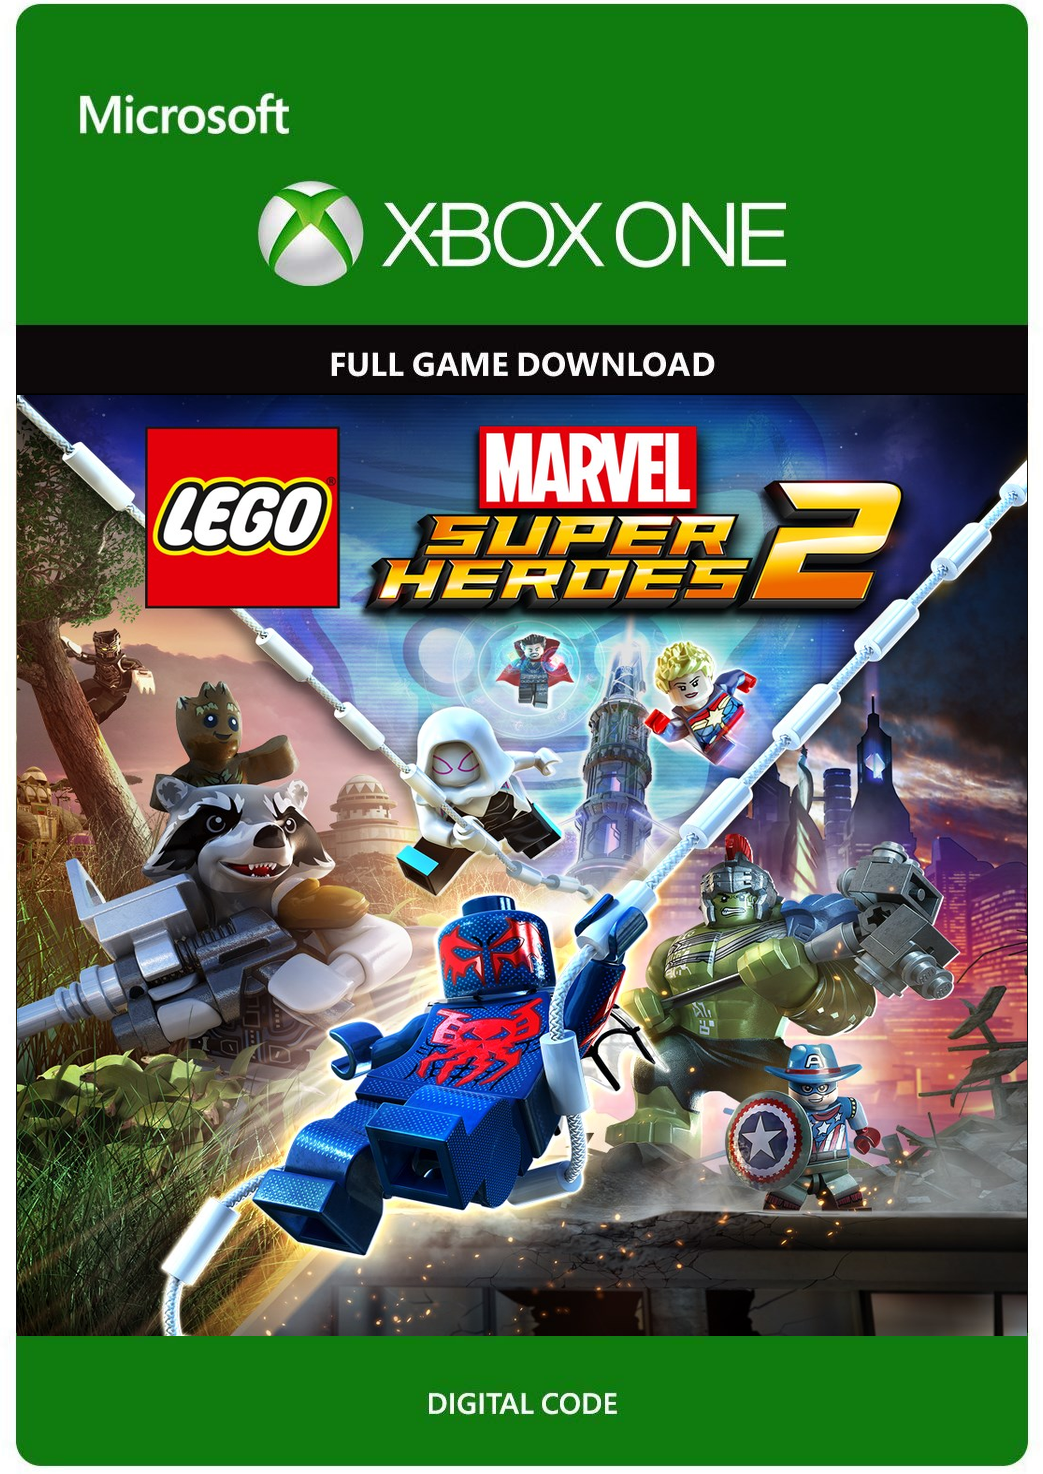
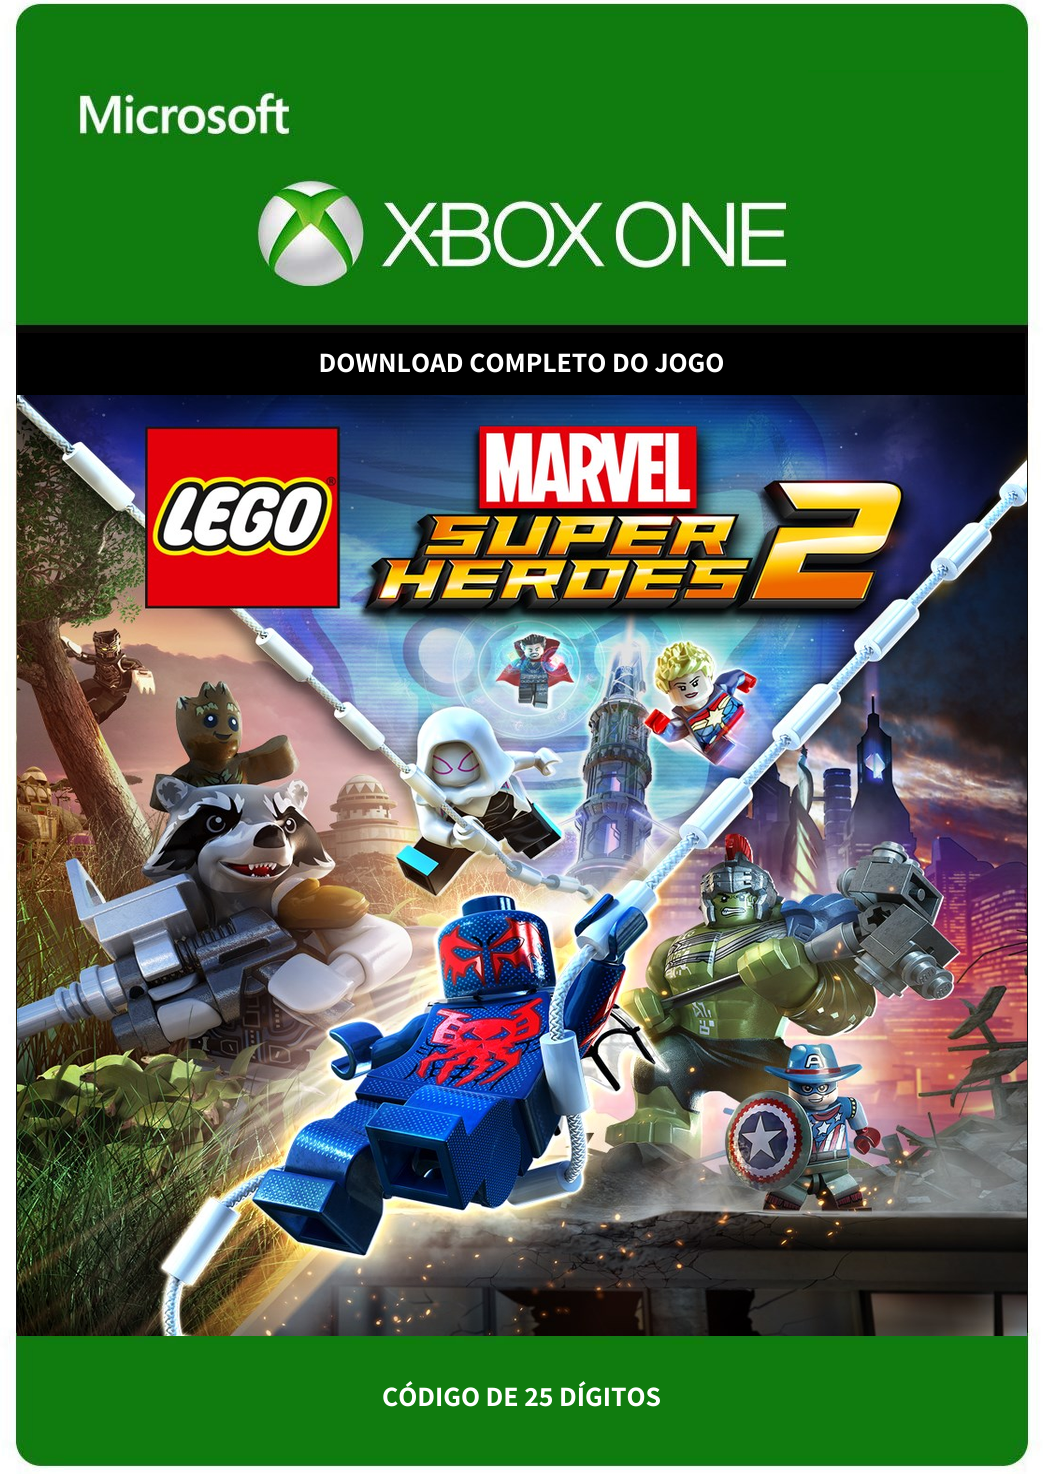
deploy imagem C0G91V37489H

Changed region(s): [[0.3068, 0.2185, 0.7057, 0.2809], [0.3682, 0.9362, 0.6443, 0.9674]]

diff --git a/description/C0G91V37489H.html b/description/C0G91V37489H.html
@@ -1,0 +1,60 @@
+<p style="font-family: 'Poppins', sans-serif; font-size: 1rem; color:gray">
+<iframe width="450" height="210" src="https://www.youtube.com/embed/TZp3WsNXIUY" title="YouTube video player" frameborder="0" allow="accelerometer; autoplay; clipboard-write; encrypted-media; gyroscope; picture-in-picture" allowfullscreen></iframe>
+<br><br>
+INFORMAÇÕES SOBRE O PRODUTO<br>
+===============================================<br>
+<br>
+Lego Marvel Super Heroes 2 (25 dígitos) Xbox One
+<br>Publicado por : Warner Bros. Games
+<br>Desenvolvido por : TT Games
+<br>Data de lançamento : 14/11/2017
+<br>Classificação etária : Para todas as idades
+<br>Categoria : Ação e aventura
+<br>Recursos: Multijogadores locais do Xbox (2-4), Cooperação local do Xbox (2-4), Tela dividida/compartilhada, Xbox One X Aprimorado
+
+<br>Já não era sem TEMPO! Junte-se aos seus super-herois e supervilões favoritos, das mais diversas eras e realidades, para encararem o viajante do tempo Kang, O Conquistador, na mais nova aventura original LEGO® Marvel Super Heroes 2! Jogue como os Guardiões da Galáxia, Homem-Aranha, Thor, Hulk, Pantera Negra, Capitã Marvel, Doutor Estranho, Duende Verde e dezenas de outros Super-herois e Supervilões da Marvel nesta batalha cosmica em Chronopolis! Viaje por várias terras, do Egito Antigo ao Velho Oeste, de Sakaar à Cidade de Nova York do ano 2099, e transporte objetos ou personagens através dos séculos! E, com os novos modos de batalha, seus amigos e familiares podem jogar uns contra os outros em uma série de desafios temáticos e em arenas de batalha!<br>
+<br>
+Fonte: Microsoft<br>
+<br>
+<br>
+- É um código de 25 dígitos único, exclusivo, nunca utilizado, que vai lhe dá o direito de resgatar o Jogo via Download;<br>
+- Após o resgate você pode instalar/desinstalar/reinstalar/jogar quantas vezes quiser e quando quiser;<br>
+- É um produto digital não é um disco físico, ou seja, não existe envio por correios;<br>
+- Quando finalizar o pagamento entre em contato via whatsapp com informações para confirmação do pagamento e recebimento do código do seu jogo;<br>
+- Após resgatar o Jogo ele fica registrado permanentemente em sua conta, não poderá ser transferido para outra pessoa;<br>
+- É preciso ter uma conta microsoft previamente criada e internet para fazer o resgate e download do Jogo;<br>
+- O Serviço da Xbox Live precisa estar ativo no momento do resgate, consulte antes;<br>
+- Jogos que tem multiplayer online você vai precisar ter assinatura Xbox Live Gold para jogar e isso é vendido separadamente;<br>
+- Jogos que não possuem multiplayer você vai poder jogar conectado ou desconectado da internet, sem se preocupar com banimento;<br>
+- Qualquer dúvida ou dificuldade nós forneceremos TODO o suporte necessário, nós ligamos pra você se você achar necessário;<br>
+<br>
+<br>
+PARA RESGATAR O CÓDIGO DE 25 DÍGITOS PELO NAVEGADOR<br>
+===============================================<br>
+<br>
+- Acesse o site de resgate de jogos da microsoft logado com a conta microsoft que deseja resgatar o Jogo;<br>
+- Digite o código de 25 dígitos no campo solicitado e clique em AVANÇAR;<br>
+- Será exibido uma imagem do Jogo e clicando em CONFIRMAR o Jogo é resgatado na sua conta;<br>
+<br>
+<br>
+PARA RESGATAR O CÓDIGO DE 25 DÍGITOS NO VIDEOGAME<br>
+===============================================<br>
+<br>
+- Acesse o videogame usando a conta microsoft que deseja resgatar o Jogo;<br>
+- Vá até STORE e clique no botão USAR UM CÓDIGO;<br>
+- Digite o código de 25 dígitos no campo solicitado e clique em AVANÇAR;<br>
+- Será exibido uma imagem do Jogo e clicando em CONFIRMAR o Jogo é resgatado na sua conta;<br>
+<br>
+<br>
+POLÍTICA DE DEVOLUÇÃO E REEMBOLSO<br>
+===============================================<br>
+<br>
+- Todos os códigos dos produtos que comercializamos são 100% digitais, originais, únicos e exclusivos. Isso nós garantimos pra você!;<br>
+- Nós não temos o poder de inutilizar o código em caso de desistência e qualquer pessoa que tenha ciência do código pode realizar o resgate do jogo;<br>
+- Por estes motivos nós não podemos realizar a devolução e nem reembolso de um produto digital;<br>
+- Antes de realizar a sua compra, nós recomendamos que tenha certeza de que o produto que esta comprando é o que realmente deseja;<br>
+- Recomendamos que antes de comprar consulte o video que disponibilizamos no anúncio, opinião de amigos ou opinião especializada;<br>
+- Realizando o pagamento via pix você concorda com todos os termos aqui descritos.<br>
+<br>
+<br>
+</p>

diff --git a/loja.html b/loja.html
@@ -249,14 +249,14 @@
                                 </div>
                             </div>
 
-                            <div class="col" style="display: none;">
+                            <div class="col">
                                 <div class="about-us-thumb wow fadeInUp" data-wow-delay="0.5s">
                                     <center>
-                                        <input type="hidden" id="CODIGO_[CODE]" value="[CODE]">
-                                        <img src="img/produtos/[CODE].png" alt="" width="200" height="100">
-                                        <h5 id="JOGO_[CODE]">[NAME]</h5>
-                                        <h6 id="VALOR_[CODE]"><span style="color:green">[VALOR]</span></h6>
-                                        <a href="#" id="comprar" class="btn fancy-btn fancy-dark" data-toggle="modal" data-target="#myModal" onclick="confirm(CODIGO_[CODE].value,JOGO_[CODE].innerText,VALOR_[CODE].innerText)">Comprar</a>
+                                        <input type="hidden" id="CODIGO_C0G91V37489H" value="C0G91V37489H">
+                                        <img src="img/produtos/C0G91V37489H.png" alt="" width="200" height="100">
+                                        <h5 id="JOGO_C0G91V37489H">Lego Marvel Super Heroes 2 (25 dígitos) Xbox One<br></h5>
+                                        <h6 id="VALOR_C0G91V37489H"><span style="color:green">R$ 118,00</span></h6>
+                                        <a href="#" id="comprar" class="btn fancy-btn fancy-dark" data-toggle="modal" data-target="#myModal" onclick="confirm(CODIGO_C0G91V37489H.value,JOGO_C0G91V37489H.innerText,VALOR_C0G91V37489H.innerText)">Comprar</a>
                                     </center>
                                 </div>
                             </div>
